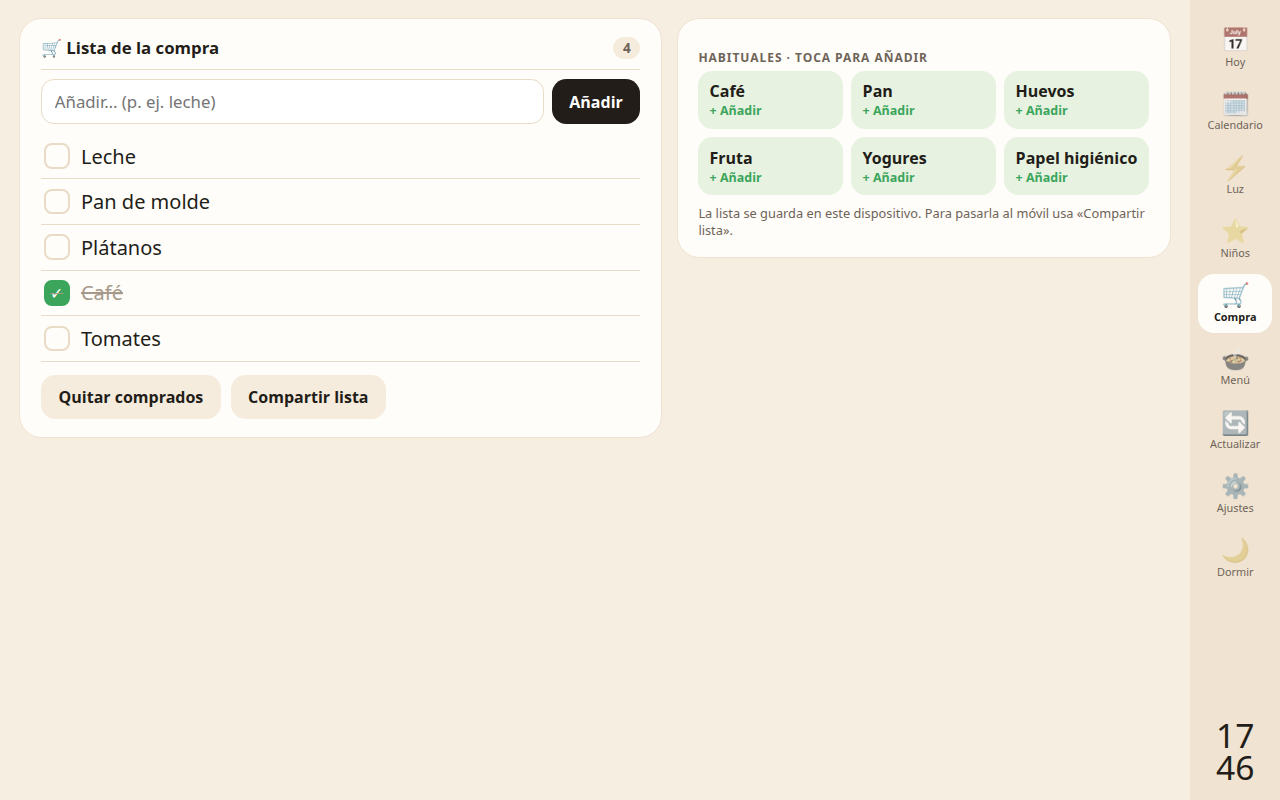
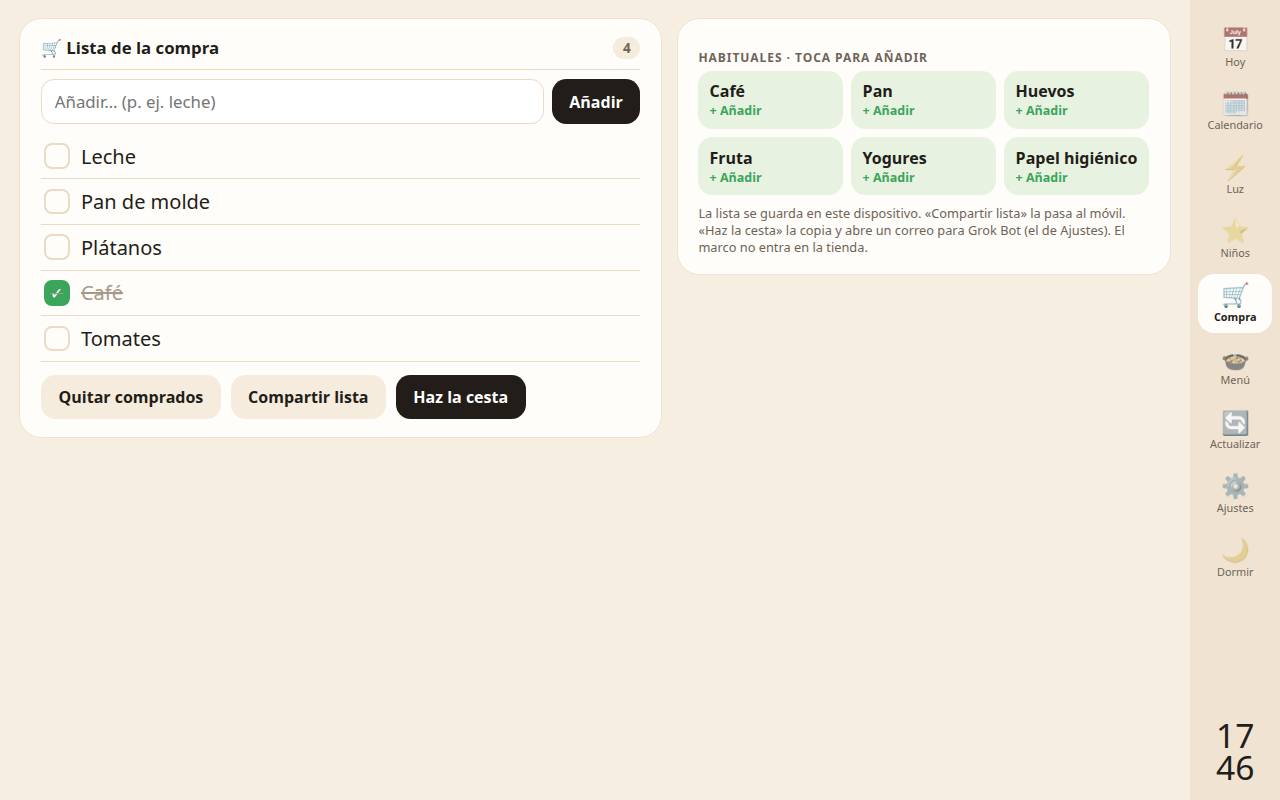
Marco v2: botón «Haz la cesta» en Compra
Copia la lista pendiente, abre un mailto al correo de Ajustes
(eroskiNotifyEmail, vacío por defecto) y avisa «Lista lista para Grok Bot».
No toca marco/.

Changed region(s): [[0.5312, 0.25, 0.9062, 0.3125], [0.3125, 0.4688, 0.4375, 0.5312]]

diff --git a/marco-v2/js/app.js b/marco-v2/js/app.js
@@ -15,7 +15,7 @@
   }
   const CFG = window.CFG = deepMerge(window.MARCO_DEFAULTS, store.get('advanced', {}));
   { const adv = store.get('advanced', {}); if (adv.work && adv.work.shifts) CFG.work.shifts = adv.work.shifts; }
-  const settings = Object.assign({ calendars: [], proxy: '', demo: null, prices: {}, nightClock: CFG.nightClock.enabled }, store.get('settings', {}));
+  const settings = Object.assign({ calendars: [], proxy: '', demo: null, prices: {}, nightClock: CFG.nightClock.enabled, eroskiNotifyEmail: '' }, store.get('settings', {}));
   const saveSettings = () => store.set('settings', settings);
   const realCalendars = () => settings.calendars.filter((c) => c.url && c.url.trim());
   const demoOn = () => (settings.demo === null || settings.demo === undefined) ? realCalendars().length === 0 : !!settings.demo;
@@ -645,6 +645,80 @@
     all.forEach((n) => { const l = n.toLowerCase(); if (!onList.has(l) && !seen.has(l)) { seen.add(l); out.push(n); } });
     return out.slice(0, 9);
   }
+  function listaPendienteTexto() {
+    const names = C().items.filter((x) => !x.done).map((x) => x.name);
+    return { names: names, text: 'Lista de la compra:\n' + names.map((n) => '• ' + n).join('\n') };
+  }
+  function mailtoCesta(text) {
+    const to = String(settings.eroskiNotifyEmail || '').trim();
+    const addr = /^[^\s@]+@[^\s@]+\.[^\s@]+$/.test(to) ? to : '';
+    return 'mailto:' + addr + '?subject=' + encodeURIComponent('Haz la cesta') + '&body=' + encodeURIComponent(text);
+  }
+  function abrirMailto(href) {
+    // Iframe: abre el correo sin navegar esta página (un <a> la deja en blanco al cancelar).
+    const frame = document.createElement('iframe');
+    frame.setAttribute('aria-hidden', 'true');
+    frame.tabIndex = -1;
+    frame.style.cssText = 'position:fixed;left:0;top:0;width:0;height:0;border:0;opacity:0';
+    frame.src = href;
+    document.body.appendChild(frame);
+    setTimeout(() => { if (frame.parentNode) frame.remove(); }, 2000);
+  }
+  async function copiarTexto(text) {
+    try {
+      if (navigator.clipboard && navigator.clipboard.writeText) {
+        await navigator.clipboard.writeText(text);
+        return true;
+      }
+    } catch (e) { /* WebView del marco o sin permiso */ }
+    let ta = null;
+    try {
+      ta = document.createElement('textarea');
+      ta.value = text;
+      ta.setAttribute('readonly', '');
+      ta.style.position = 'fixed';
+      ta.style.top = '0';
+      ta.style.left = '0';
+      ta.style.opacity = '0';
+      document.body.appendChild(ta);
+      ta.focus();
+      ta.select();
+      try { ta.setSelectionRange(0, text.length); } catch (e2) { /* algunos WebView */ }
+      return !!document.execCommand('copy');
+    } catch (e) { return false; }
+    finally { if (ta && ta.parentNode) ta.remove(); }
+  }
+  async function hazLaCesta() {
+    const lista = listaPendienteTexto();
+    if (!lista.names.length) { toast('No hay nada pendiente en la lista'); return; }
+    const copied = await copiarTexto(lista.text);
+    const href = mailtoCesta(lista.text);
+    const avisar = () => toast('Lista lista para Grok Bot', 12000);
+    let salio = false;
+    const limpiar = () => {
+      window.removeEventListener('blur', alSalir);
+      window.removeEventListener('focus', alVolver);
+      document.removeEventListener('visibilitychange', alVolver);
+      clearTimeout(fin);
+    };
+    const alSalir = () => { salio = true; };
+    const alVolver = () => {
+      if (document.hidden) { salio = true; return; }
+      if (!salio) return;
+      limpiar();
+      avisar();
+    };
+    const fin = setTimeout(limpiar, 120000);
+    window.addEventListener('blur', alSalir);
+    window.addEventListener('focus', alVolver);
+    document.addEventListener('visibilitychange', alVolver);
+    // El aviso va antes que el correo: el diálogo del sistema tapa la página.
+    avisar();
+    if (!copied) {
+      openModal('<div class="modal-t">Lista lista para Grok Bot</div><div class="muted sm">No se pudo copiar sola. Selecciónala aquí. El correo se abre con la misma lista (el destinatario se pone en Ajustes).</div><textarea class="share-ta" rows="8" readonly>' + esc(lista.text) + '</textarea>');
+    }
+    setTimeout(() => abrirMailto(href), 400);
+  }
   function renderCompra() {
     const c = C();
     const items = c.items;
@@ -653,10 +727,10 @@
       '<section class="card"><div class="card-h">🛒 Lista de la compra <span class="count">' + pending.length + '</span></div>' +
         '<form class="add" id="addForm" autocomplete="off"><input id="addInput" placeholder="Añadir… (p. ej. leche)" maxlength="60" enterkeyhint="done"><button class="btn" type="submit">Añadir</button></form>' +
         '<div class="items">' + (items.length ? items.map((x) => '<button class="item' + (x.done ? ' done' : '') + '" data-item="' + esc(x.id) + '"><span class="box">' + (x.done ? '✓' : '') + '</span>' + esc(x.name) + '</button>').join('') : '<div class="muted">La lista está vacía.</div>') + '</div>' +
-        '<div class="row-btns"><button class="btn ghost" data-act="clearDone">Quitar comprados</button><button class="btn ghost" data-act="share">Compartir lista</button></div></section>' +
+        '<div class="row-btns"><button class="btn ghost" data-act="clearDone">Quitar comprados</button><button class="btn ghost" data-act="share">Compartir lista</button><button class="btn" data-act="hazCesta">Haz la cesta</button></div></section>' +
       '<section class="card"><div class="card-h sub">HABITUALES · TOCA PARA AÑADIR</div><div class="habs">' +
         habituales(c).map((n) => '<button class="hab" data-hab="' + esc(n) + '"><b>' + esc(n) + '</b><span>+ Añadir</span></button>').join('') + '</div>' +
-        '<div class="muted sm">La lista se guarda en este dispositivo. Para pasarla al móvil usa «Compartir lista».</div></section></div>';
+        '<div class="muted sm">La lista se guarda en este dispositivo. «Compartir lista» la pasa al móvil. «Haz la cesta» la copia y abre un correo para Grok Bot (el de Ajustes). El marco no entra en la tienda.</div></section></div>';
     const f = $('#addForm');
     f.onsubmit = (ev) => { ev.preventDefault(); const v = $('#addInput').value; addItem(v); setTimeout(() => { const i = $('#addInput'); if (i) i.focus(); }, 0); };
   }
@@ -818,6 +892,9 @@
         '<div class="row-btns"><button class="btn" data-act="saveChores">Guardar</button><button class="btn ghost" data-act="resetStars">Poner estrellas a 0 🔒</button></div></section>' +
       '<section class="card"><div class="card-h">🔒 PIN de padres</div><div class="muted sm">Para aprobar canjes y entrar en Ajustes. Se guarda en este dispositivo; es un candado para niños, no seguridad fuerte.</div>' +
         '<div class="row-btns"><input id="pin1" type="password" inputmode="numeric" maxlength="8" placeholder="Nuevo PIN (4–8 cifras)"><button class="btn" data-act="savePin">' + (store.get('pin', null) ? 'Cambiar PIN' : 'Crear PIN') + '</button></div></section>' +
+      '<section class="card"><div class="card-h">🛒 Aviso de la cesta</div><div class="muted sm">Correo al que «Haz la cesta» abre el mensaje con la lista pendiente, para que Grok Bot la recoja cuando se lo pidas. Vacío hasta que lo pongas. Se guarda solo en este dispositivo. El marco no entra en la tienda.</div>' +
+        '<label class="lbl">Correo<input id="eroskiMail" type="email" inputmode="email" autocomplete="off" spellcheck="false" value="' + esc(settings.eroskiNotifyEmail || '') + '" placeholder="bot@ejemplo.com"></label>' +
+        '<div class="row-btns"><button class="btn" data-act="saveEroski">Guardar correo</button></div></section>' +
       '<section class="card"><div class="card-h">🌙 Pantalla</div><label class="switch"><input type="checkbox" id="night" ' + (settings.nightClock ? 'checked' : '') + '> Reloj nocturno de ' + esc(CFG.nightClock.from) + ' a ' + esc(CFG.nightClock.to) + '</label>' +
         '<div class="row-btns"><button class="btn ghost" data-act="fullscreen">Pantalla completa</button><button class="btn" data-act="saveScreen">Guardar</button></div></section>' +
       '<section class="card"><div class="card-h">🧩 Avanzado (JSON)</div><div class="muted sm">Sobrescribe la configuración a mano (para casos raros). Lo normal es usar «Familia» o «Importar».</div>' +
@@ -879,6 +956,14 @@
         if (!/^\d{4,8}$/.test(v)) { toast('El PIN debe tener de 4 a 8 cifras'); break; }
         if (store.get('pin', null) && !(await pinPad('PIN actual'))) break;
         store.set('pin', v); toast('PIN guardado'); render(); break;
+      }
+      case 'saveEroski': {
+        const v = $('#eroskiMail').value.trim();
+        if (v && !/^[^\s@]+@[^\s@]+\.[^\s@]+$/.test(v)) { toast('Pon un correo válido o déjalo vacío'); break; }
+        settings.eroskiNotifyEmail = v;
+        saveSettings();
+        toast(v ? 'Correo guardado' : 'Sin correo: se elige al enviar');
+        break;
       }
       case 'saveScreen': settings.nightClock = $('#night').checked; saveSettings(); toast('Guardado'); break;
       case 'fullscreen': try { await document.documentElement.requestFullscreen(); } catch (e) { toast('Este navegador no deja pantalla completa'); } break;
@@ -949,10 +1034,11 @@
       if (act === 'sleep') return sleep(true);
       if (act === 'clearDone') { const c = C(); c.items = c.items.filter((x) => !x.done); saveC(c); return render(); }
       if (act === 'share') {
-        const txt = 'Lista de la compra:\n' + C().items.filter((x) => !x.done).map((x) => '• ' + x.name).join('\n');
+        const txt = listaPendienteTexto().text;
         if (navigator.share) { try { await navigator.share({ text: txt }); return; } catch (e) { /* cancelado */ } }
         return openModal('<div class="modal-t">Lista para copiar</div><textarea class="share-ta" rows="8" readonly>' + esc(txt) + '</textarea>');
       }
+      if (act === 'hazCesta') return hazLaCesta();
       return settingsAction(act, a);
     }
     const e = t.closest('[data-ev]'); if (e) return showEvent(e.dataset.ev);

diff --git a/marco-v2/sw.js b/marco-v2/sw.js
@@ -1,7 +1,7 @@
 /* Caché simple para GitHub Pages: la app se abre sin red y los datos vivos siguen en localStorage.
  * No guarda calendarios, el proxy ni las APIs (Open-Meteo, REE). */
 (function () {
-  var CACHE = 'marco-v2-shell-v1';
+  var CACHE = 'marco-v2-shell-v2';
   var ASSETS = [
     './',
     './index.html',

diff --git a/marco-v2/tests/test_marco.py b/marco-v2/tests/test_marco.py
@@ -10,6 +10,7 @@ Opcional:
 Las capturas de capturas/ se hacen SIEMPRE con ajustes genéricos de ejemplo.
 """
 import datetime as dt, glob, json, os, sys
+from urllib.parse import unquote
 from playwright.sync_api import sync_playwright
 
 HERE = os.path.dirname(os.path.abspath(__file__))
@@ -174,6 +175,71 @@ with sync_playwright() as p:
     check("hoy enseña la comida elegida", "Pizza" in page.inner_text(".next-meals"))
     page.click("#rail [data-go=menu]"); page.click("[data-act=resetMenu]")
     check("volver al menú de ejemplo", "Arroz" in page.locator(".menu-slot[data-day='2'][data-meal='comida']").inner_text())
+    # Haz la cesta: copia, mailto y aviso. Sin webhook en el repo; el correo sale de Ajustes.
+    page.evaluate("""() => {
+      window.__cesta = { copied: null, href: null, exec: false };
+      const clip = navigator.clipboard || (navigator.clipboard = {});
+      clip.writeText = (t) => { window.__cesta.copied = t; return Promise.resolve(); };
+      new MutationObserver((recs) => {
+        recs.forEach((r) => Array.from(r.addedNodes).forEach((n) => {
+          if (!n || n.tagName !== 'IFRAME') return;
+          const s = n.getAttribute('src') || '';
+          if (s.indexOf('mailto:') === 0) window.__cesta.href = n.src || s;
+        }));
+      }).observe(document.body, { childList: true });
+    }""")
+    page.click("#rail [data-go=compra]"); page.wait_for_selector("[data-act=hazCesta]")
+    check("compra: botón Haz la cesta junto a compartir", page.inner_text("[data-act=hazCesta]") == "Haz la cesta" and page.is_visible("[data-act=share]"))
+    page.click("[data-act=hazCesta]")
+    page.clock.run_for(500)
+    page.wait_for_function("() => window.__cesta && window.__cesta.href")
+    mail = page.evaluate("""() => {
+      const h = window.__cesta.href || '';
+      const q = h.split('?')[1] || '';
+      const p = new URLSearchParams(q);
+      return { to: h.split('?')[0], subject: p.get('subject'), body: p.get('body'), copied: window.__cesta.copied, toast: document.querySelector('#toast').textContent };
+    }""")
+    pendiente = "Lista de la compra:\n• Leche\n• Pan de molde\n• Plátanos\n• Tomates"
+    check("haz la cesta copia solo pendientes", mail["copied"] == pendiente and mail["body"] == pendiente and "Café" not in (mail["body"] or ""), mail)
+    check("mailto sin destinatario y asunto Haz la cesta", mail["to"] == "mailto:" and mail["subject"] == "Haz la cesta", mail)
+    check("toast lista lista para Grok Bot", mail["toast"] == "Lista lista para Grok Bot", mail["toast"])
+    page.click("#rail [data-go=ajustes]"); page.wait_for_selector("#eroskiMail")
+    check("ajustes: correo de la cesta vacío", page.input_value("#eroskiMail") == "")
+    page.fill("#eroskiMail", "no-es-correo"); page.click("[data-act=saveEroski]")
+    page.wait_for_function("() => document.querySelector('#toast').textContent.includes('válido')")
+    guardado = page.evaluate("() => (JSON.parse(localStorage.getItem('marco-v2.settings') || '{}').eroskiNotifyEmail || '')")
+    check("correo inválido no se guarda", guardado == "", guardado)
+    page.fill("#eroskiMail", "bot@ejemplo.com"); page.click("[data-act=saveEroski]")
+    page.wait_for_function("() => document.querySelector('#toast').textContent === 'Correo guardado'")
+    check("correo de aviso guardado en marco-v2.settings", page.evaluate("() => JSON.parse(localStorage.getItem('marco-v2.settings')).eroskiNotifyEmail") == "bot@ejemplo.com")
+    page.evaluate("() => { window.__cesta.copied = null; window.__cesta.href = null; }")
+    page.click("#rail [data-go=compra]"); page.click("[data-act=hazCesta]")
+    page.clock.run_for(500)
+    page.wait_for_function("() => window.__cesta.href")
+    mail2 = page.evaluate("""() => {
+      const h = window.__cesta.href || '';
+      const p = new URLSearchParams(h.split('?')[1] || '');
+      return { to: decodeURIComponent(h.split('?')[0]), subject: p.get('subject'), body: p.get('body') };
+    }""")
+    check("mailto usa el correo de ajustes", mail2["to"] == "mailto:bot@ejemplo.com" and mail2["subject"] == "Haz la cesta" and mail2["body"].startswith("Lista de la compra:\n• Leche"), mail2)
+    page.evaluate("""() => {
+      window.__cesta = { copied: null, href: null, exec: false };
+      navigator.clipboard.writeText = () => Promise.reject(new Error('denegado'));
+      document.execCommand = (cmd) => { if (cmd === 'copy') { window.__cesta.exec = true; return false; } return false; };
+    }""")
+    page.click("[data-act=hazCesta]")
+    page.clock.run_for(500)
+    page.wait_for_selector(".share-ta")
+    fallback = page.evaluate("""() => ({
+      href: window.__cesta.href, exec: window.__cesta.exec, modal: document.querySelector('.share-ta').value,
+      toast: document.querySelector('#toast').textContent
+    })""")
+    check("si no hay portapapeles, se ve la lista y sigue el mailto", fallback["exec"] and fallback["modal"] == pendiente and unquote(fallback["href"] or "").startswith("mailto:bot@ejemplo.com?") and fallback["toast"] == "Lista lista para Grok Bot", fallback)
+    page.click("[data-close]")
+    page.evaluate("""() => { const c = JSON.parse(localStorage.getItem('marco-v2.compra')); c.items.forEach(x => { x.done = true; }); localStorage.setItem('marco-v2.compra', JSON.stringify(c)); window.__cesta.href = null; }""")
+    page.click("[data-act=hazCesta]")
+    page.wait_for_function("() => document.querySelector('#toast').textContent.includes('pendiente')")
+    check("lista vacía no abre correo", page.evaluate("window.__cesta.href") is None and "No hay nada pendiente" in page.inner_text("#toast"))
     # CORS
     cors = page.evaluate("""async () => {
       const u = 'https://calendar.google.com/calendar/ical/es.spain%23holiday%40group.v.calendar.google.com/public/basic.ics';

diff --git a/marco-v2/README.md b/marco-v2/README.md
@@ -26,9 +26,9 @@ y 1920×1200, y también en móvil.
 | **Calendario** | 13 semanas de lunes a domingo, con el mes, el día 1 resaltado, el tiempo de los próximos 16 días, la jornada, las citas y las **semanas de custodia sombreadas**. Los calendarios **de fondo** se ven tenues y no tapan el resto. «+N más» abre el día entero. Tocar una cita permite **marcarla hecha** (tachada; se guarda en el dispositivo). |
 | **Luz** | Periodo **2.0TD** actual (punta/llano/valle; fines de semana y festivos nacionales, todo valle), franjas de hoy y mañana, **mejores horas** para lavadora y lavavajillas. Precios de tu tarifa solo si los metes tú en Ajustes (no se inventan). Gráfico **PVPC de REE marcado como referencia, «NO es tu tarifa»**. |
 | **Niños** | Tareas por **franja** (mañana, después del cole, noche) y por niño. Si se pasa la hora, quedan **fuera de hora**. Una **racha** semanal (L–D). En la semana sin niños (custodia) se **pausan solas**. Estrellas, recompensas y canje que **aprueba un adulto con PIN** (bloqueo 5 min tras 5 fallos). |
-| **Compra** | Lista con «comprado», «Quitar comprados», «Compartir lista» y **habituales** (los que más añades y aún no están en la lista). |
+| **Compra** | Lista con «comprado», «Quitar comprados», «Compartir lista», **«Haz la cesta»** (copia la lista pendiente y abre un correo para Grok Bot) y **habituales** (los que más añades y aún no están en la lista). |
 | **Menú** | Plan de la semana **L–D o L–V**: comida y cena. Se elige entre platos habituales (tocar la casilla y el plato, o arrastrar). Hoy lo enseña en Ahora. |
-| **Ajustes** | Calendarios iCal (cada uno puede ser **de fondo**), proxy CORS, modo demo, **familia** (nombres, custodia, jornada por día, ciudad), precios de la tarifa, tareas y recompensas, PIN, reloj nocturno, **importar/exportar ajustes (JSON)** y avanzado. |
+| **Ajustes** | Calendarios iCal (cada uno puede ser **de fondo**), proxy CORS, modo demo, **familia** (nombres, custodia, jornada por día, ciudad), precios de la tarifa, tareas y recompensas, PIN, **correo de «Haz la cesta»** (vacío hasta que lo pongas), reloj nocturno, **importar/exportar ajustes (JSON)** y avanzado. |
 
 Tocar cualquier cita abre su detalle (calendario, título entero, fecha y hora, lugar y descripción) y el botón **Marcar hecha**.
 Reloj nocturno de 23:00 a 07:00 (o con el botón «Dormir»), con **lo primero de mañana**; vuelve solo a «Hoy» tras 3 min sin tocar;
@@ -128,7 +128,7 @@ capturas/             capturas a 1280×800 (y 1920×1200 y móvil), con datos de
 - **Alojamiento:** esta versión se publica en GitHub Pages bajo `/podcasts/marco-v2/` (rutas relativas y service worker con alcance solo de esa carpeta). El marco en uso sigue en `/podcasts/marco/`.
   Es **público**: por eso el código no lleva datos personales; tus ajustes viven solo en el dispositivo. Alternativas privadas:
   `serve.py` en un PC o Raspberry Pi de casa, o Cloudflare Pages con Access.
-- La lista de la compra y las estrellas son **por dispositivo** (sin sincronización). Para compartir de verdad haría falta un pequeño
+- La lista de la compra y las estrellas son **por dispositivo** (sin sincronización). «Haz la cesta» copia los pendientes y abre un `mailto:` al correo de Ajustes (`eroskiNotifyEmail`, vacío por defecto) con asunto «Haz la cesta». El marco no entra en la tienda: Grok Bot rellena la cesta fuera de esta página. Para compartir de verdad haría falta un pequeño
   backend (p. ej. un Worker con KV) o Bring!/Google Tasks.
 - Los precios de tu tarifa no vienen: cópialos de tu factura en Ajustes si quieres verlos. El PVPC es solo referencia, sin IVA ni impuesto eléctrico
   (el «con impuestos» es una estimación).
